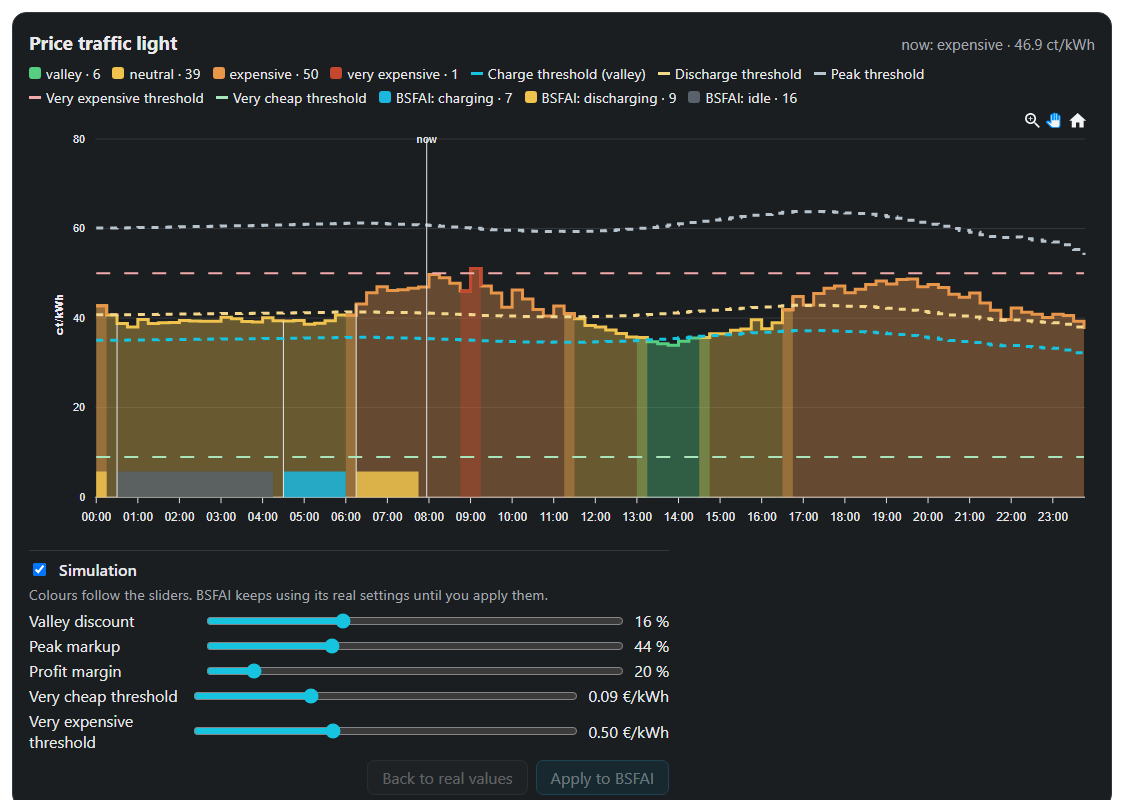
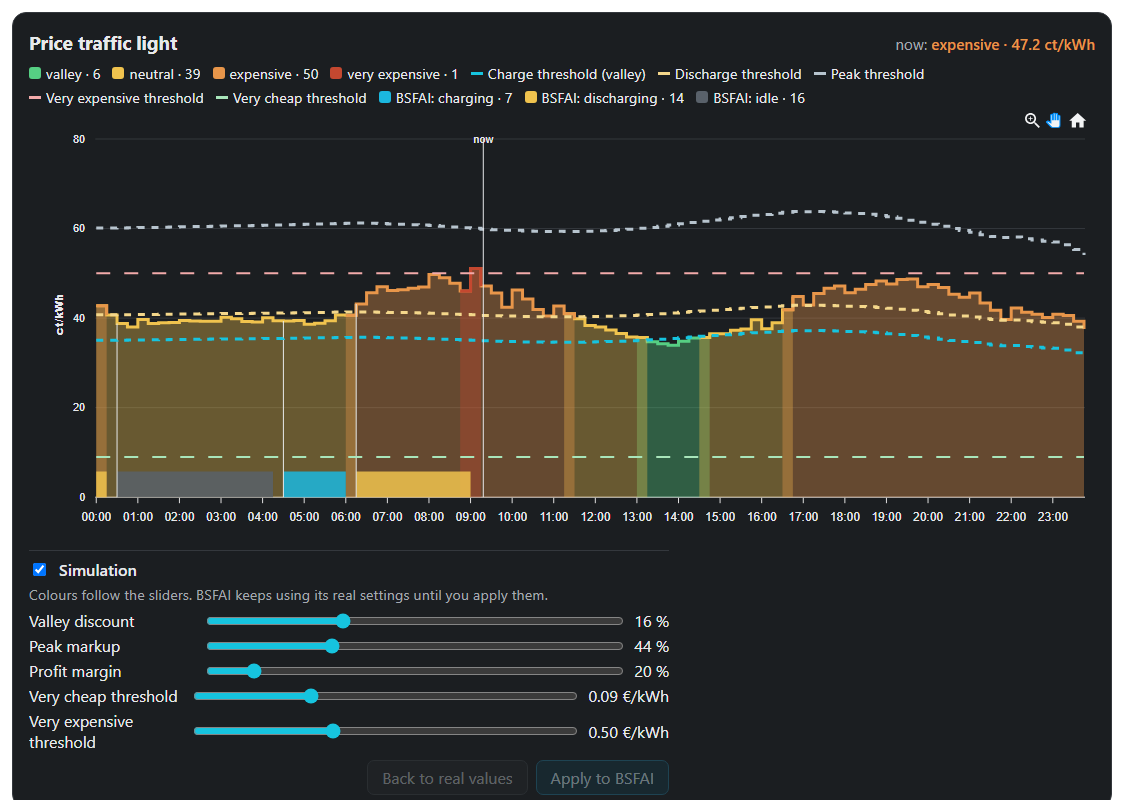
0.1.5: aktuelle Stufe oben rechts in der Stufenfarbe, Screenshots erneuert

diff --git a/custom_components/smartflow_preisampel/www/smartflow-preisampel-card.js b/custom_components/smartflow_preisampel/www/smartflow-preisampel-card.js
@@ -9,7 +9,7 @@
  * Simulator; ohne Simulation zeigt die Karte die fertig gerechnete Leiter.
  */
 
-const VERSION = "0.1.4";
+const VERSION = "0.1.5";
 const CARD = "smartflow-preisampel-card";
 const EDITOR = "smartflow-preisampel-card-editor";
 
@@ -285,6 +285,7 @@ class SmartflowPreisampelCard extends HTMLElement {
         .head { display: flex; align-items: baseline; justify-content: space-between; gap: 12px; flex-wrap: wrap; }
         .title { font-size: 1.2em; font-weight: 500; }
         .now { color: var(--secondary-text-color); font-size: .95em; }
+        .now .level { font-weight: 600; }
         .warn { margin: 8px 0; padding: 8px 10px; border-radius: 8px; background: rgba(234,88,12,.12); color: var(--primary-text-color); border-left: 4px solid #ea580c; }
         .info { margin: 8px 0; padding: 8px 10px; border-radius: 8px; background: rgba(29,78,216,.10); border-left: 4px solid #1d4ed8; }
         .legend { display: flex; flex-wrap: wrap; gap: 4px 12px; margin: 8px 0 2px; font-size: .9em; }
@@ -405,10 +406,17 @@ class SmartflowPreisampelCard extends HTMLElement {
     this._V = V;
 
     const nowCls = V.nowIndex >= 0 ? V.cls[V.nowIndex] : null;
+    // "jetzt:" bleibt gedeckt, Stufe und Preis tragen die Farbe der Stufe
+    // (dieselbe wie im Diagramm, eigene Farben eingeschlossen).
     const nowText = this.shadowRoot.querySelector(".now");
-    nowText.textContent = nowCls
-      ? `${t.now}: ${t.classes[nowCls]} · ${this._fmt(V.p[V.nowIndex], V.unit)}${V.sim ? ` · ${t.simulation}` : ""}`
-      : "";
+    nowText.textContent = "";
+    if (nowCls) {
+      const level = document.createElement("span");
+      level.className = "level";
+      level.style.color = this._c(nowCls);
+      level.textContent = `${t.classes[nowCls]} · ${this._fmt(V.p[V.nowIndex], V.unit)}`;
+      nowText.append(`${t.now}: `, level, V.sim ? ` · ${t.simulation}` : "");
+    }
 
     const { series, meta } = this._series(V);
     this._meta = meta;
